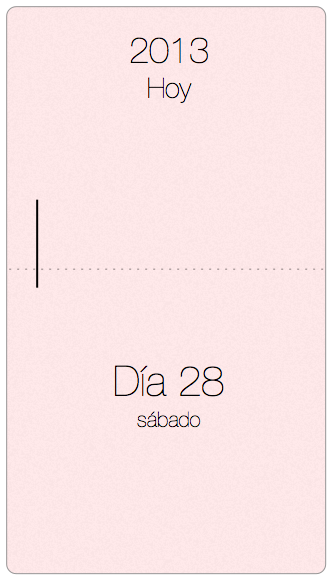
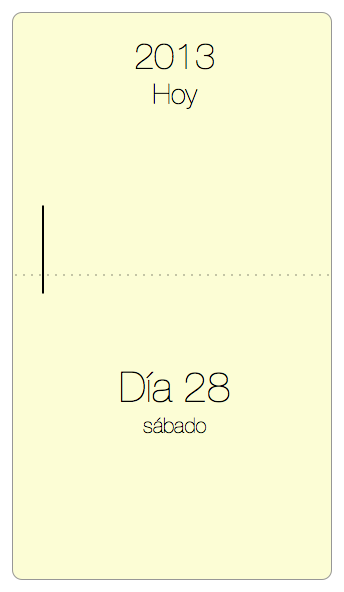
Pruebas con color

Changed region(s): [[0.0, 0.0, 0.991, 0.9914]]

diff --git a/Code/Word Diary/WDWordTextWithoutCursorView.m b/Code/Word Diary/WDWordTextWithoutCursorView.m
@@ -108,6 +108,12 @@
         }
     }
     */
+    /*
+    UIColor *textColor = [self.dataSource actualSelectedWordBackgroundColorForWordTextView:self];
+    CGFloat hue, saturation, brightness, alpha;
+    [textColor getHue:&hue saturation:&saturation brightness:&brightness alpha:&alpha];
+    textColor = [UIColor colorWithHue:hue saturation:saturation brightness:brightness * 0.35 alpha:alpha];
+    */
     self.lastWordText = wordText;
 
     NSString *familyFont = self.familyFont;
@@ -119,13 +125,17 @@
     BOOL endFindingFontSize = NO;
     do {
         CTFontRef fontRef = CTFontCreateWithName((__bridge CFStringRef)familyFont, fontSize, NULL);
-        NSDictionary *attrDictionary = [NSDictionary dictionaryWithObjectsAndKeys:(__bridge id)fontRef, (NSString *)kCTFontAttributeName,
-                                        [UIColor blackColor], (NSString *)NSForegroundColorAttributeName, nil];
+        NSDictionary *attrDictionary = @{
+                                         NSFontAttributeName:(__bridge id)fontRef,
+                                         //NSForegroundColorAttributeName:textColor,
+                                         NSForegroundColorAttributeName:[UIColor blackColor],
+
+        };
         CFRelease(fontRef);
         
         NSMutableAttributedString *attString = [[NSMutableAttributedString alloc] initWithString:wordTextWithCursor attributes:attrDictionary];
         [attString addAttribute:(NSString *)kCTForegroundColorAttributeName value:[UIColor colorWithWhite:1.0 alpha:0.0] range:NSMakeRange(wordTextWithCursor.length - 1, 1)];
-        
+       
         line = CTLineCreateWithAttributedString((__bridge CFAttributedStringRef)(attString));
         
         // Para centrar sin tener en cuenta el cursor
@@ -151,6 +161,9 @@
     CGPoint fontDrawPoint = CGPointMake(self.frame.origin.x + (self.bounds.size.width - lineImageBoundsWithoutCursor.size.width) / 2, startPointDraw.y);
     
     CGContextSaveGState(contextRef);
+    
+    //CGContextSetShadowWithColor(contextRef,CGSizeMake(2, 1), 0 ,[UIColor blackColor].CGColor);
+    
     CGContextSetTextPosition(contextRef, fontDrawPoint.x, fontDrawPoint.y);
     CTLineDraw(line, contextRef);
     CFRelease(line);

diff --git a/Code/Word Diary/WDWordTextWithCursorView.m b/Code/Word Diary/WDWordTextWithCursorView.m
@@ -73,7 +73,7 @@
         
         // Set text position and draw the line into the graphics context
         lineImageBounds = CTLineGetImageBounds(line, contextRef);
-        endFindingFontSize = startPointDraw.x + self.frame.origin.x + lineImageBounds.size.width + 10.0 < startPointDraw.x + self.frame.origin.x + self.bounds.size.width;
+        endFindingFontSize = startPointDraw.x + self.frame.origin.x + lineImageBounds.size.width + 40.0 < startPointDraw.x + self.frame.origin.x + self.bounds.size.width;
         if (endFindingFontSize) {
             endFindingFontSize = lineImageBounds.size.height + 40.0 < self.bounds.size.height;
         }

diff --git a/Code/Word Diary/WDWordRepresentationView.m b/Code/Word Diary/WDWordRepresentationView.m
@@ -326,6 +326,12 @@ static CGFloat FONT_START_SIZE = 100.0;
     return [WDUtils isIPhone5Screen] ? FONT_START_SIZE * 1.15 : FONT_START_SIZE * 0.9;
 }
 
+- (UIColor *)actualSelectedWordBackgroundColorForWordTextView:(WDWordTextView *)wordTextView
+{
+    return [self.dataSource actualSelectedWordBackgroundColorForWordRepresentation:self];
+}
+
+
 #pragma mark - Motion Events
 
 - (void)motionEnded:(UIEventSubtype)motion withEvent:(UIEvent *)event

diff --git a/Code/Word Diary/WDSelectedWordScreenViewController.m b/Code/Word Diary/WDSelectedWordScreenViewController.m
@@ -1006,6 +1006,11 @@ const static CGFloat ANIMATION_TIME_WITHOUTCURSORMODE = 1.15;
     return self.keyboardActive;
 }
 
+-(UIColor *)actualSelectedWordBackgroundColorForWordRepresentation:(WDWordRepresentationView *)wordRepresentationView
+{
+    return [[WDGradientBackground gradientColors] objectAtIndex:self.selectedWord.backgroundCategory];
+}
+
 #pragma mark - App iOS events
 
 - (void)resign

diff --git a/Code/Word Diary/WDWordRepresentationViewDataSource.h b/Code/Word Diary/WDWordRepresentationViewDataSource.h
@@ -16,4 +16,6 @@
 - (NSString *)actualFamilyFontForWordRepresentationView:(WDWordRepresentationView *)wordRepresentationView;
 - (BOOL)isInWritingModeFoWordRepresentationView:(WDWordRepresentationView *)wordRepresentationView;
 
+- (UIColor *)actualSelectedWordBackgroundColorForWordRepresentation:(WDWordRepresentationView *)wordRepresentationView;
+
 @end

diff --git a/Code/Word Diary/WDWordTextViewDataSource.h b/Code/Word Diary/WDWordTextViewDataSource.h
@@ -18,6 +18,8 @@
 - (CGPoint)actualStartPointDrawingForWordTextView:(WDWordTextView *)wordTextView;
 - (CGFloat)fontStartSize;
 
+- (UIColor *)actualSelectedWordBackgroundColorForWordTextView:(WDWordTextView *)wordTextView;
+
 - (BOOL)isInWritingModeForWordTextView:(WDWordTextView *)wordTextView;
 
 @end
